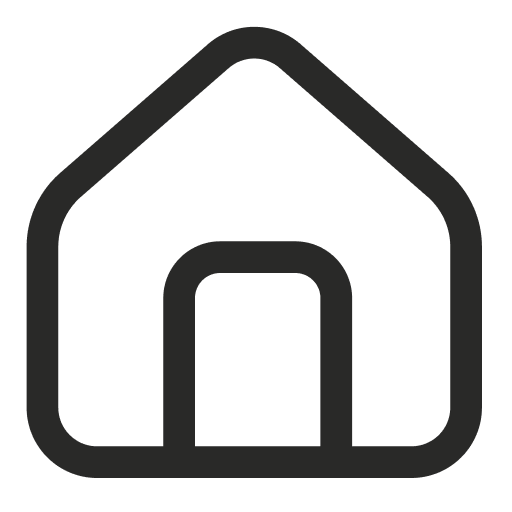
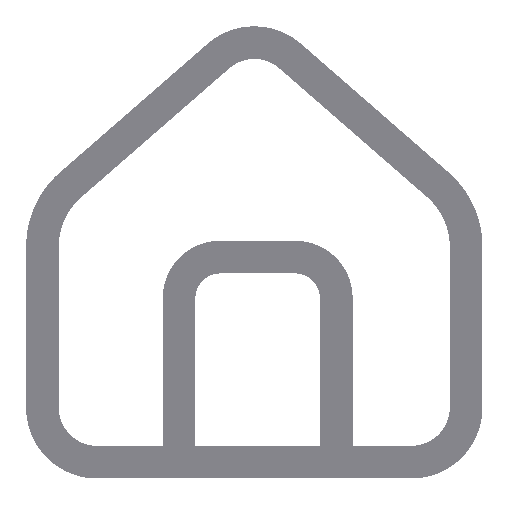
cart page done

Changed region(s): [[0.0312, 0.0312, 0.9688, 0.9375]]

diff --git a/src/components/footer/foooter.jsx b/src/components/footer/foooter.jsx
@@ -4,27 +4,52 @@ import './footer.css';
 
 
 export default function Footer() {
+
     return(
         <footer className="footer-fixed">
             <div className="footer-container">
                 <div className="navbar">
-                    <NavLink to="/" className="nav-item active">
-                        <img src="src/assets/images/footer/home.png" alt="home_button" className="nav-picture home" />
+                    <NavLink
+                        to="/"
+                        className={({ isActive }) =>
+                            isActive ? "nav-item active" : "nav-item"
+                        }
+                    >
+                            <img src="src/assets/images/footer/home.png" alt="home_button" className="nav-picture home" />
                     </NavLink>
 
-                    <NavLink to="/catalog" className="nav-item">
+                    <NavLink
+                        to="/catalog"
+                        className={({ isActive }) =>
+                        isActive ? "nav-item active" : "nav-item"
+                    }>
                         <img src="src/assets/images/footer/catalog.png" alt="catalog_button" className="nav-picture catalog" />
                     </NavLink>
 
-                    <NavLink to="/favorites" className="nav-item">
+                    <NavLink
+                        to="/favorites"
+                        className={({ isActive }) =>
+                            isActive ? "nav-item active" : "nav-item"
+                        }
+                    >
                         <img src="src/assets/images/footer/favorite.png" alt="favorite_button" className="nav-picture favorite" />
                     </NavLink>
 
-                    <NavLink to="/cart" className="nav-item">
+                    <NavLink
+                        to="/cart"
+                        className={({ isActive }) =>
+                            isActive ? "nav-item active" : "nav-item"
+                        }
+                    >
                         <img src="src/assets/images/footer/cart.png" alt="cart_button" className="nav-picture cart" />
                     </NavLink>
 
-                    <NavLink to="/profile" className="nav-item">
+                    <NavLink
+                        to="/profile"
+                        className={({ isActive }) =>
+                            isActive ? "nav-item active" : "nav-item"
+                        }
+                    >
                         <img src="src/assets/images/footer/account.png" alt="profile_button" className="nav-picture profile" />
                     </NavLink>
                 </div>

diff --git a/src/pages/Cart/Cart.jsx b/src/pages/Cart/Cart.jsx
@@ -1,19 +1,47 @@
-
+import React from "react";
 import './Cart.css'
 
-export default function Cart({ cart, addToCart, removeFromCart }) {
-    return(
-        <div>
-            <h1>Корзина</h1>
+export default function Cart({ cart, addToCart, removeFromCart, products }) {
 
-            {Object.keys(cart).length === 0 ? (
-                <p> Корзина пуста</p>
+    const cartProducts = products.filter(p => cart[p.id]);
+
+    return(
+        <div className="cart-page">
+            <h2 className="cart-title">Корзина</h2>
+
+            {cartProducts.length === 0 ? (
+                <p className="empty-cart">Ваша корзина пуста</p>
             ) : (
-                Object.entries(cart).map(([id, qty]) => (
-                    <div key={id}>
-                        <span>Товар {id}: {qty} шт.</span>
-                        <button onClick={() => removeFromCart(id)}>-</button>
-                        <button onClick={() => addToCart(id)}>+</button>
+                cartProducts.map(product => (
+                    <div className="cart-item" key={product.id}>
+                        <div className="cart-item-img">
+                            <img src={product.img} alt={product.title} />
+                        </div>
+
+                        <div className="cart-item-info">
+                            <p className="cart-item-title">{product.title}</p>
+                            <p className="cart-item-price">{product.price}</p>
+
+                            <div className="cart-item-controls">
+                                <button
+                                    className="qty-btn"
+                                    onClick={() => removeFromCart(product.id)}
+                                >
+                                    -
+                                </button>
+
+                                <button
+                                    className="qty-btn"
+                                    onClick={() => addToCart(product.id)}
+                                >
+                                    +
+                                </button>
+                            </div>
+                        </div>
+
+                        <div className="cart-item-qty">
+                            <span>{cart[product.id]}</span>
+                        </div>
                     </div>
                 ))
             )}

diff --git a/src/pages/Cart/Cart.css b/src/pages/Cart/Cart.css
@@ -1,0 +1,93 @@
+.cart-page{
+    width: 600px;
+    padding: 20px;
+}
+
+.cart-title{
+    font-size: 22px;
+    font-weight: 700;
+    margin-bottom: 20px;
+    color: #292928;
+    font-family: 'inter_bold';
+}
+
+.empty-cart{
+    text-align: center;
+    margin-top: 40px;
+    font-size: 18px;
+    opacity: 0.6;
+    color: #292928;
+    font-family: 'inter';
+}
+
+.cart-item{
+    display: flex;
+    align-items: center;
+    justify-content: space-between;
+    border-radius: 14px;
+    padding: 12px;
+    margin-bottom: 12px;
+    color: #292928;
+    background-color: #fff;
+    border: 1px solid #292928;
+}
+
+.cart-item-img img{
+    width: 120px;
+    height: 120px;
+    border-radius: 12px;
+    object-fit: cover;
+    object-position: top;
+}
+
+.cart-item-info{
+    flex: 1;
+    margin-left: 15px;
+}
+
+.cart-item-title{
+    font-size: 14px;
+    font-weight: 500;
+    margin-bottom: 8px;
+    font-family: 'inter';
+}
+
+.cart-item-price{
+    font-size: 16px;
+    font-weight: 700;
+    margin-bottom: 10px;
+    font-family: 'inter_bold';
+}
+
+.cart-item-controls{
+    display: flex;
+    gap: 12px;
+    border-radius: 50%;
+    background: #F1F1F1;
+}
+
+.cart-item-controls:active,
+.cart-item-controls:focus{
+    outline: none;
+    border: none;
+}
+
+.qty-btn{
+    width: 32px;
+    height: 32px;
+    border-radius: 8px;
+    border: none;
+    background: #f2f3f5;
+    font-size: 20px;
+    font-family: 'inter';
+}
+
+.cart-item-qty{
+    font-size: 18px;
+    font-weight: 700;
+    padding-left: 15px;
+    min-width: 30px;
+    text-align: center;
+    font-family: 'inter_bold';
+}
+

diff --git a/src/App.jsx b/src/App.jsx
@@ -35,10 +35,18 @@ function App() {
         })
     }
 
+    const products = [
+        {id: 1, img: "src/assets/images/main/product_list/1.png", price: "2 800 ₽", title: "Футболка мужская Комары"},
+        {id: 2, img: "src/assets/images/main/product_list/2.jpg", price: "2 700 ₽", title: "Свитшот женский укороченный Yamal est.2017"},
+        {id: 3, img: "src/assets/images/main/product_list/3.jpg", price: "1 550 ₽", title: "Шапка Yamal комбинация с бумбономапша"},
+        {id: 4, img: "src/assets/images/main/product_list/4.jpg", price: "640 ₽", title: "Брелок фирменный «Созвездие»"},
+        {id: 5, img: "src/assets/images/main/product_list/5.jpg", price: "3 850 ₽", title: "Шорты мужские Yamal"},
+        {id: 6, img: "src/assets/images/main/product_list/6.jpg", price: "10 000 ₽", title: "Сертификат Yamal 10000"},
+    ];
+
     return (
         <Router>
             <Header />
-
                 <Routes>
                     <Route path="/" element={<Home
                         cart = {cart}
@@ -59,9 +67,11 @@ function App() {
                         cart={cart}
                         addToCart={addToCart}
                         removeFromCart={removeFromCart}
+                        products={products}
                     />} />
                     <Route path="/profile" element={<Profile />} />
                 </Routes>
+
 
             <Footer />
         </Router>

diff --git a/src/components/footer/footer.css b/src/components/footer/footer.css
@@ -33,5 +33,24 @@
     width: 21px;
     height: 21px;
     background: transparent;
+}
 
+.nav-item.active img.home{
+    content: url(src/assets/images/footer/home-active.png);
+}
+
+.nav-item.active img.catalog{
+    content: url(src/assets/images/footer/catalog-active.png);
+}
+
+.nav-item.active img.favorite{
+    content: url(src/assets/images/footer/favorite-active.png);
+}
+
+.nav-item.active img.cart{
+    content: url(src/assets/images/footer/cart-active.png);
+}
+
+.nav-item.active img.profile{
+    content: url(src/assets/images/footer/account-active.png);
 }

diff --git a/src/components/main/products/productlist.css b/src/components/main/products/productlist.css
@@ -218,7 +218,7 @@
     display: flex;
     align-items: center;
     justify-content: space-between;
-    gap: 8px;;
+    gap: 8px;
     width: 100%;
     margin-top: 10px;
 }
@@ -231,6 +231,12 @@
     background: #F1F1F1;
     font-size: 20px;
     cursor: pointer;
+}
+
+.qty-btn:active,
+.qty-btn:focus{
+    outline: none;
+    border: none;
 }
 
 .qty-number{

diff --git a/src/App.css b/src/App.css
@@ -1,4 +1,4 @@
-.app {
+.App {
   font-family: -apple-system, BlinkMacSystemFont, "Segoe UI", Roboto, sans-serif;
   background: #fff;
   color: #111;

diff --git a/src/index.css b/src/index.css
@@ -10,6 +10,7 @@
 }
 
 #root{
+  max-width: 600px;
   padding-bottom: 100px;
 }
 
